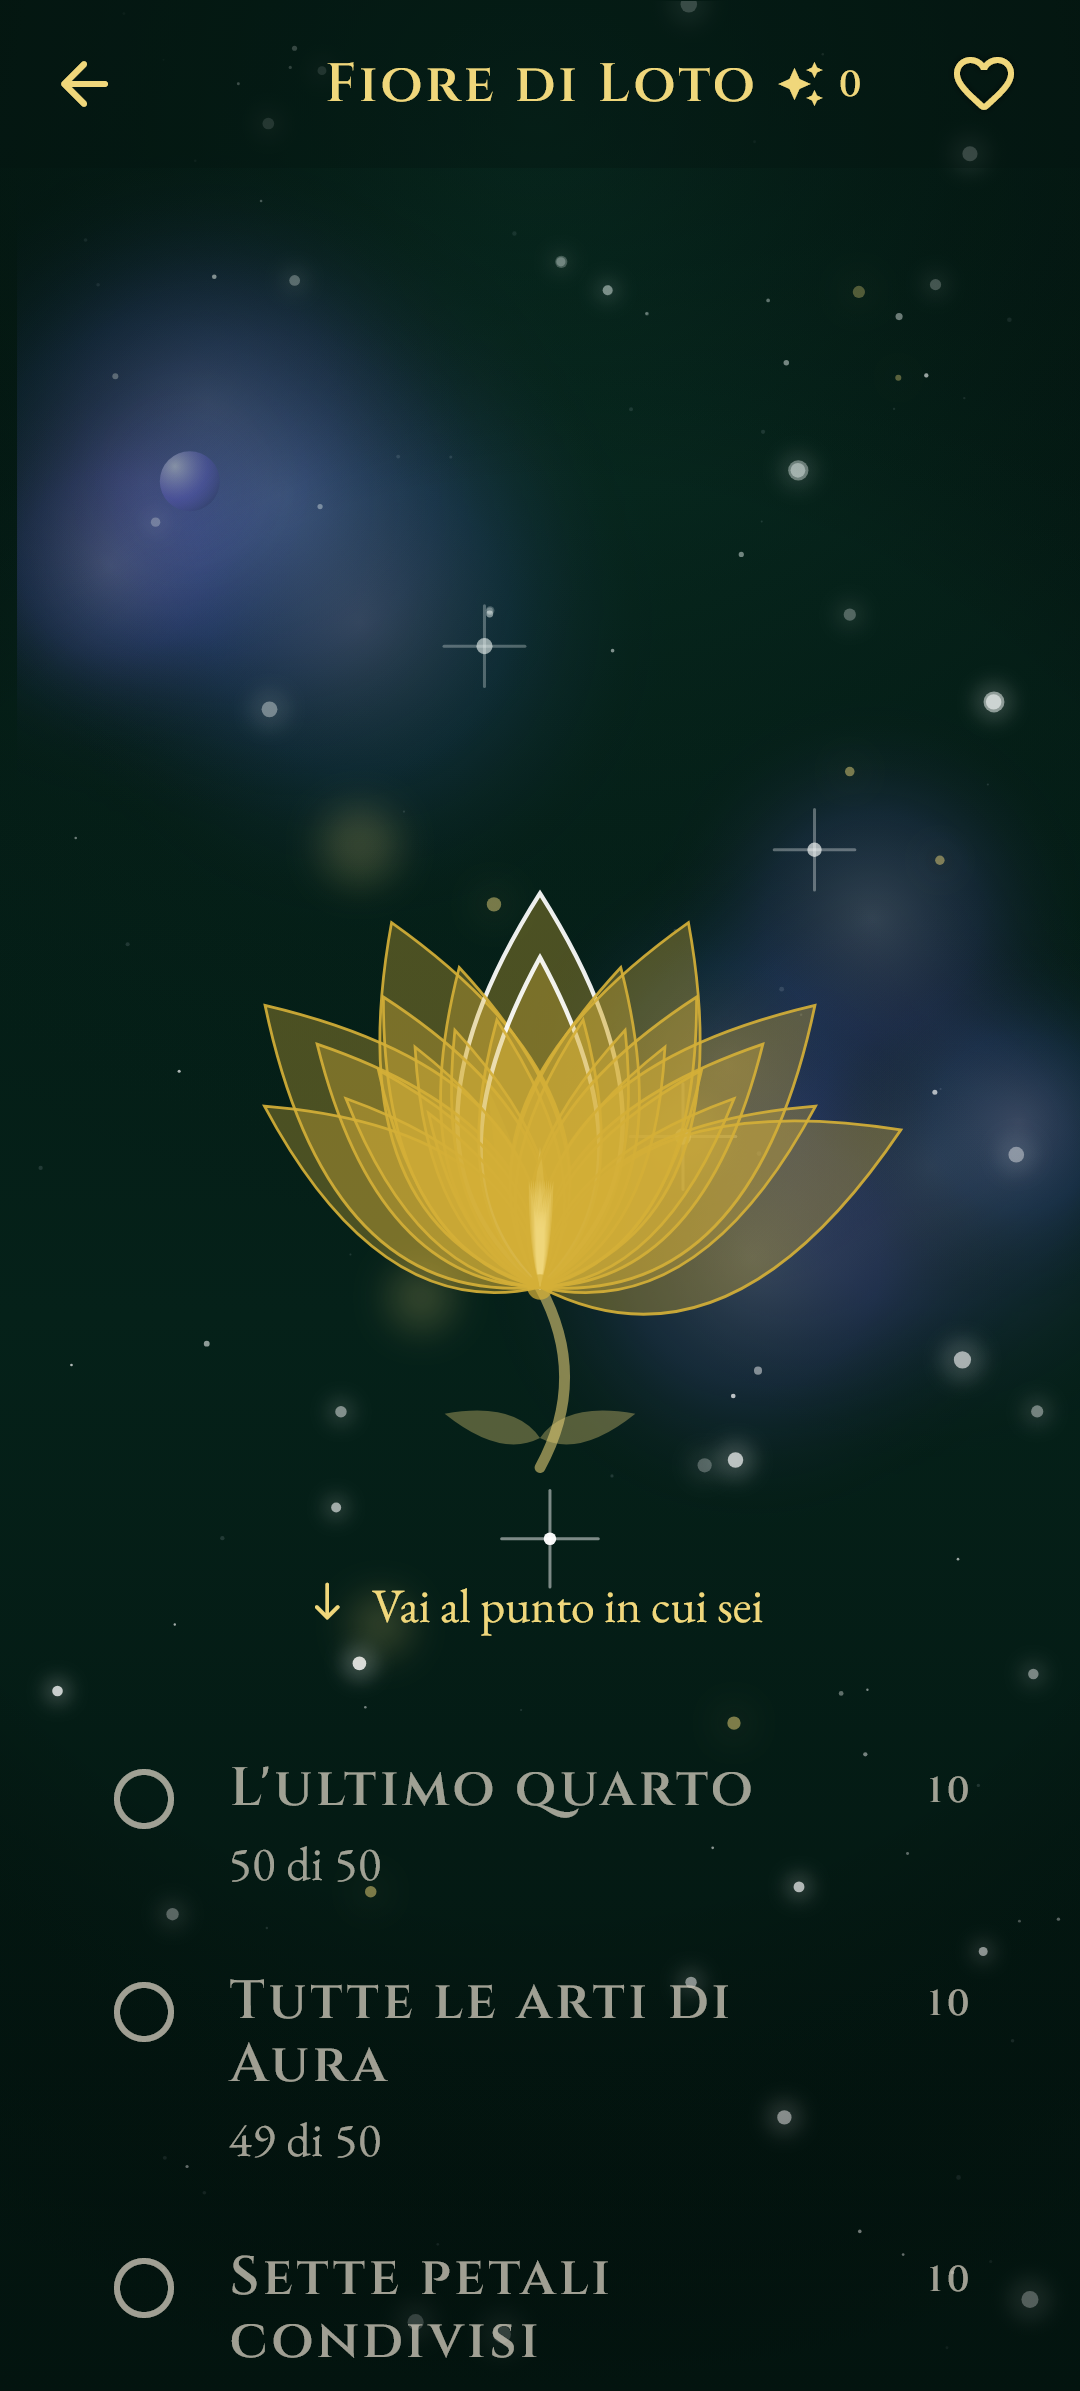
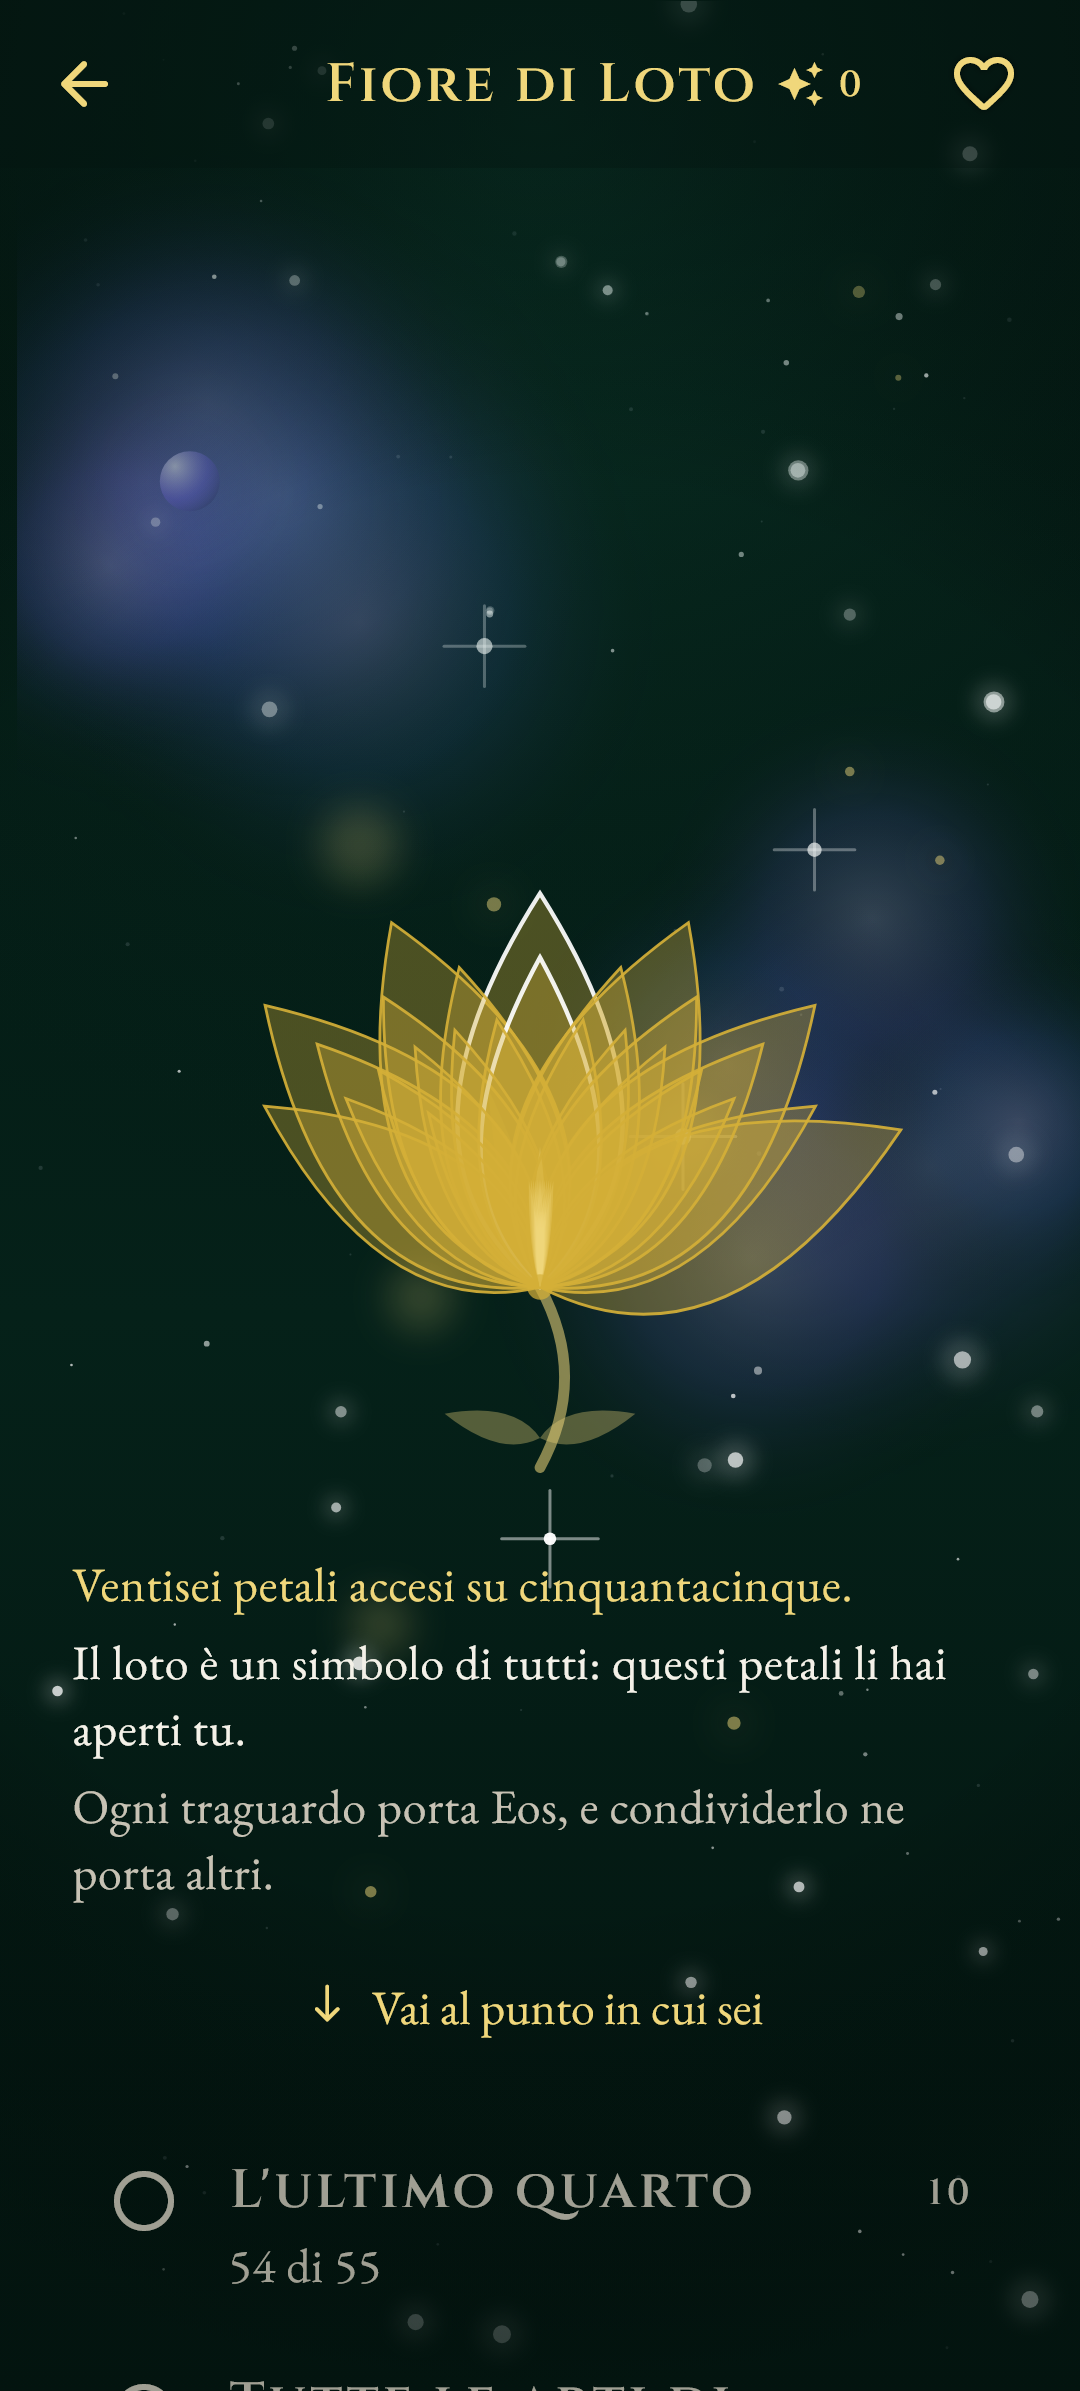
Ordine S voce 03: non si dichiara unico cio' che unico non e'
La Costellazione personale e' inventata e nel cielo di nessun altro esiste, quindi
la sua riga puo' dirlo. L'Albero della Vita no: le dieci Sefirot, i ventidue
sentieri e la loro disposizione sono gli stessi per chiunque, e il loto e' un
simbolo condiviso. Una riga che lo desse per unico direbbe il falso, nella stessa
famiglia dell'avviso che diceva alla persona che l'app non sapeva chi fosse.

Cio' che e' unico non e' la figura: sono i frutti che quella persona ha maturato e
i petali che ha aperto. La struttura e' di tutti, il cammino sopra e' suo.

L'ALBERO lo diceva gia' cosi', "questo porta i TUOI frutti", e non e' stato
toccato: non si riscrive per riscrivere. IL LOTO diceva soltanto cosa fa un loto,
"si schiude quando il respiro ha smesso di essere una scelta": vero e bello, ma non
nominava la parte che e' della persona. Adesso dice "Il loto e' un simbolo di
tutti: questi petali li hai aperti tu."

Una prova vieta le rivendicazioni di unicita' sull'Albero e sul Loto e le PRETENDE
sulla Costellazione, perche' quella riga e' la cosa che la distingue, e chiede che
le due righe nominino la parte che e' della persona. Rosso eseguito mettendo sul
Loto "Nessun altro loto e' come questo: e' solo tuo": cade col nome del sentiero e
la riga per intero.

diff --git a/test/il_conto_e_uno_solo_test.dart b/test/il_conto_e_uno_solo_test.dart
@@ -120,6 +120,44 @@ void main() {
       }
     });
 
+    test('non si dichiara unico cio\' che unico non e\'', () {
+      // **La Costellazione personale puo' dirsi unica, l'Albero della Vita
+      // no.** Le dieci Sefirot, i ventidue sentieri e la loro disposizione sono
+      // gli stessi per chiunque; il loto e' un simbolo condiviso. Una riga che
+      // lasciasse intendere il contrario direbbe il falso, ed e' la stessa
+      // famiglia dell'avviso che diceva alla persona che l'app non sapeva chi
+      // fosse. Cio' che e' unico sono i frutti maturati e i petali aperti: la
+      // struttura e' di tutti, il cammino sopra e' suo.
+      const rivendicazioni = [
+        'nessun altro', 'nessun\'altra', 'solo tuo', 'solo tua', 'unico',
+        'unica', 'esiste solo',
+      ];
+      for (final sentiero in const [Sentiero.albero, Sentiero.loto]) {
+        final riga = LeTreRigheDelSentiero.cosaVedi(sentiero).toLowerCase();
+        for (final r in rivendicazioni) {
+          expect(riga.contains(r), isFalse,
+              reason: 'la riga di ${sentiero.name} dichiara unica una struttura '
+                  'tradizionale con "$r": l\'Albero della Vita e il loto '
+                  'sono di tutti, e cio\' che e\' suo e\' il cammino sopra. '
+                  '«$riga»');
+        }
+        // E la parte che E' sua va nominata: i frutti, i petali.
+        final suo = sentiero == Sentiero.albero ? 'tuoi frutti' : 'petali';
+        expect(riga, contains(suo),
+            reason: 'la riga di ${sentiero.name} non dice quale parte e\' '
+                'della persona: la struttura e\' di tutti, ma il cammino sopra '
+                'e\' suo, e se non lo si dice la riga descrive un simbolo '
+                'qualunque');
+      }
+      // La Costellazione, invece, e' inventata: la sua rivendicazione e' vera.
+      expect(
+          LeTreRigheDelSentiero.cosaVedi(Sentiero.costellazione).toLowerCase(),
+          contains('nessun altro'),
+          reason: 'la Costellazione personale e\' l\'unica delle tre che puo\' '
+              'dirsi unica, perche\' e\' inventata: se perde questa riga perde '
+              'la cosa che la distingue');
+    });
+
     test('le tre righe restano TRE, e brevi', () {
       for (final sentiero in Sentiero.values) {
         final righe = [

diff --git a/lib/features/sigilli/le_tre_righe_del_sentiero.dart b/lib/features/sigilli/le_tre_righe_del_sentiero.dart
@@ -40,13 +40,26 @@ class LeTreRigheDelSentiero extends StatelessWidget {
   final MaestroPalette palette;
 
   /// COSA E' LA FIGURA, una frase per Maestro. Non come funziona.
+  ///
+  /// **NON SI DICHIARA UNICO CIO' CHE UNICO NON E', ed e' una differenza fra i
+  /// tre.** La Costellazione personale e' inventata e nel cielo di nessun altro
+  /// esiste, quindi la sua riga puo' dirlo. L'Albero della Vita no: le dieci
+  /// Sefirot, i ventidue sentieri e la loro disposizione sono gli stessi per
+  /// chiunque, e una riga che lasciasse intendere che quell'albero e' solo tuo
+  /// direbbe il falso, nella stessa famiglia dell'avviso che diceva alla persona
+  /// che l'app non sapeva chi fosse. Il loto e' un simbolo condiviso, in misura
+  /// minore.
+  ///
+  /// **Cio' che e' unico nei due casi non e' la figura: sono i frutti che quella
+  /// persona ha maturato e i petali che ha aperto.** La struttura e' di tutti, il
+  /// cammino sopra e' suo, e le righe lo dicono in quest'ordine.
   static String cosaVedi(Sentiero sentiero) => switch (sentiero) {
         Sentiero.costellazione =>
           'Nessun altro cielo ha questa figura: è la tua, e la disegni tu.',
         Sentiero.albero =>
           'Un albero cresce dove lo curi: questo porta i tuoi frutti.',
         Sentiero.loto =>
-          'Il loto si schiude quando il respiro ha smesso di essere una scelta.',
+          'Il loto è un simbolo di tutti: questi petali li hai aperti tu.',
       };
 
   /// COME SI CHIAMANO I PUNTI di questa figura, al plurale e al singolare.

diff --git a/docs/ordini/ORDINE_S_MANIFESTO.md b/docs/ordini/ORDINE_S_MANIFESTO.md
@@ -143,6 +143,18 @@ chiusa: committare non e' consegnare.
     un punto solo, e i tre sentieri le compongono dalla stessa struttura cambiando
     la sola voce: DOVE SEI col numero dal dato e scritto in parole, COSA VEDI in
     una frase del Maestro, COSA GUADAGNI detto una volta.
+  - **NON SI DICHIARA UNICO CIO' CHE UNICO NON E'.** La Costellazione personale e'
+    inventata e nel cielo di nessun altro esiste, quindi la sua riga puo' dirlo.
+    L'Albero della Vita NO: le dieci Sefirot, i ventidue sentieri e la loro
+    disposizione sono gli stessi per chiunque, e il loto e' un simbolo condiviso.
+    Cio' che e' unico sono i frutti maturati e i petali aperti: la struttura e' di
+    tutti, il cammino sopra e' suo. L'Albero lo diceva gia' cosi', "questo porta i
+    TUOI frutti"; il Loto diceva soltanto cosa fa un loto e non nominava la parte
+    che e' della persona, ed e' stata riscritta: "Il loto e' un simbolo di tutti:
+    questi petali li hai aperti tu." Una prova vieta le rivendicazioni di unicita'
+    sull'Albero e sul Loto e le PRETENDE sulla Costellazione, e chiede che le due
+    righe nominino la parte che e' della persona. Rosso eseguito mettendo sul Loto
+    "Nessun altro loto e' come questo: e' solo tuo."
   - **La riga "cosa vedi" NON spiega il disegno.** Adesso che il disegno e' buono,
     spiegarne il meccanismo lo insulterebbe: dice cosa E' la figura. Una prova
     vieta le parole del tutorial ("tocca", "scorri", "quando accendi", "vedrai")
